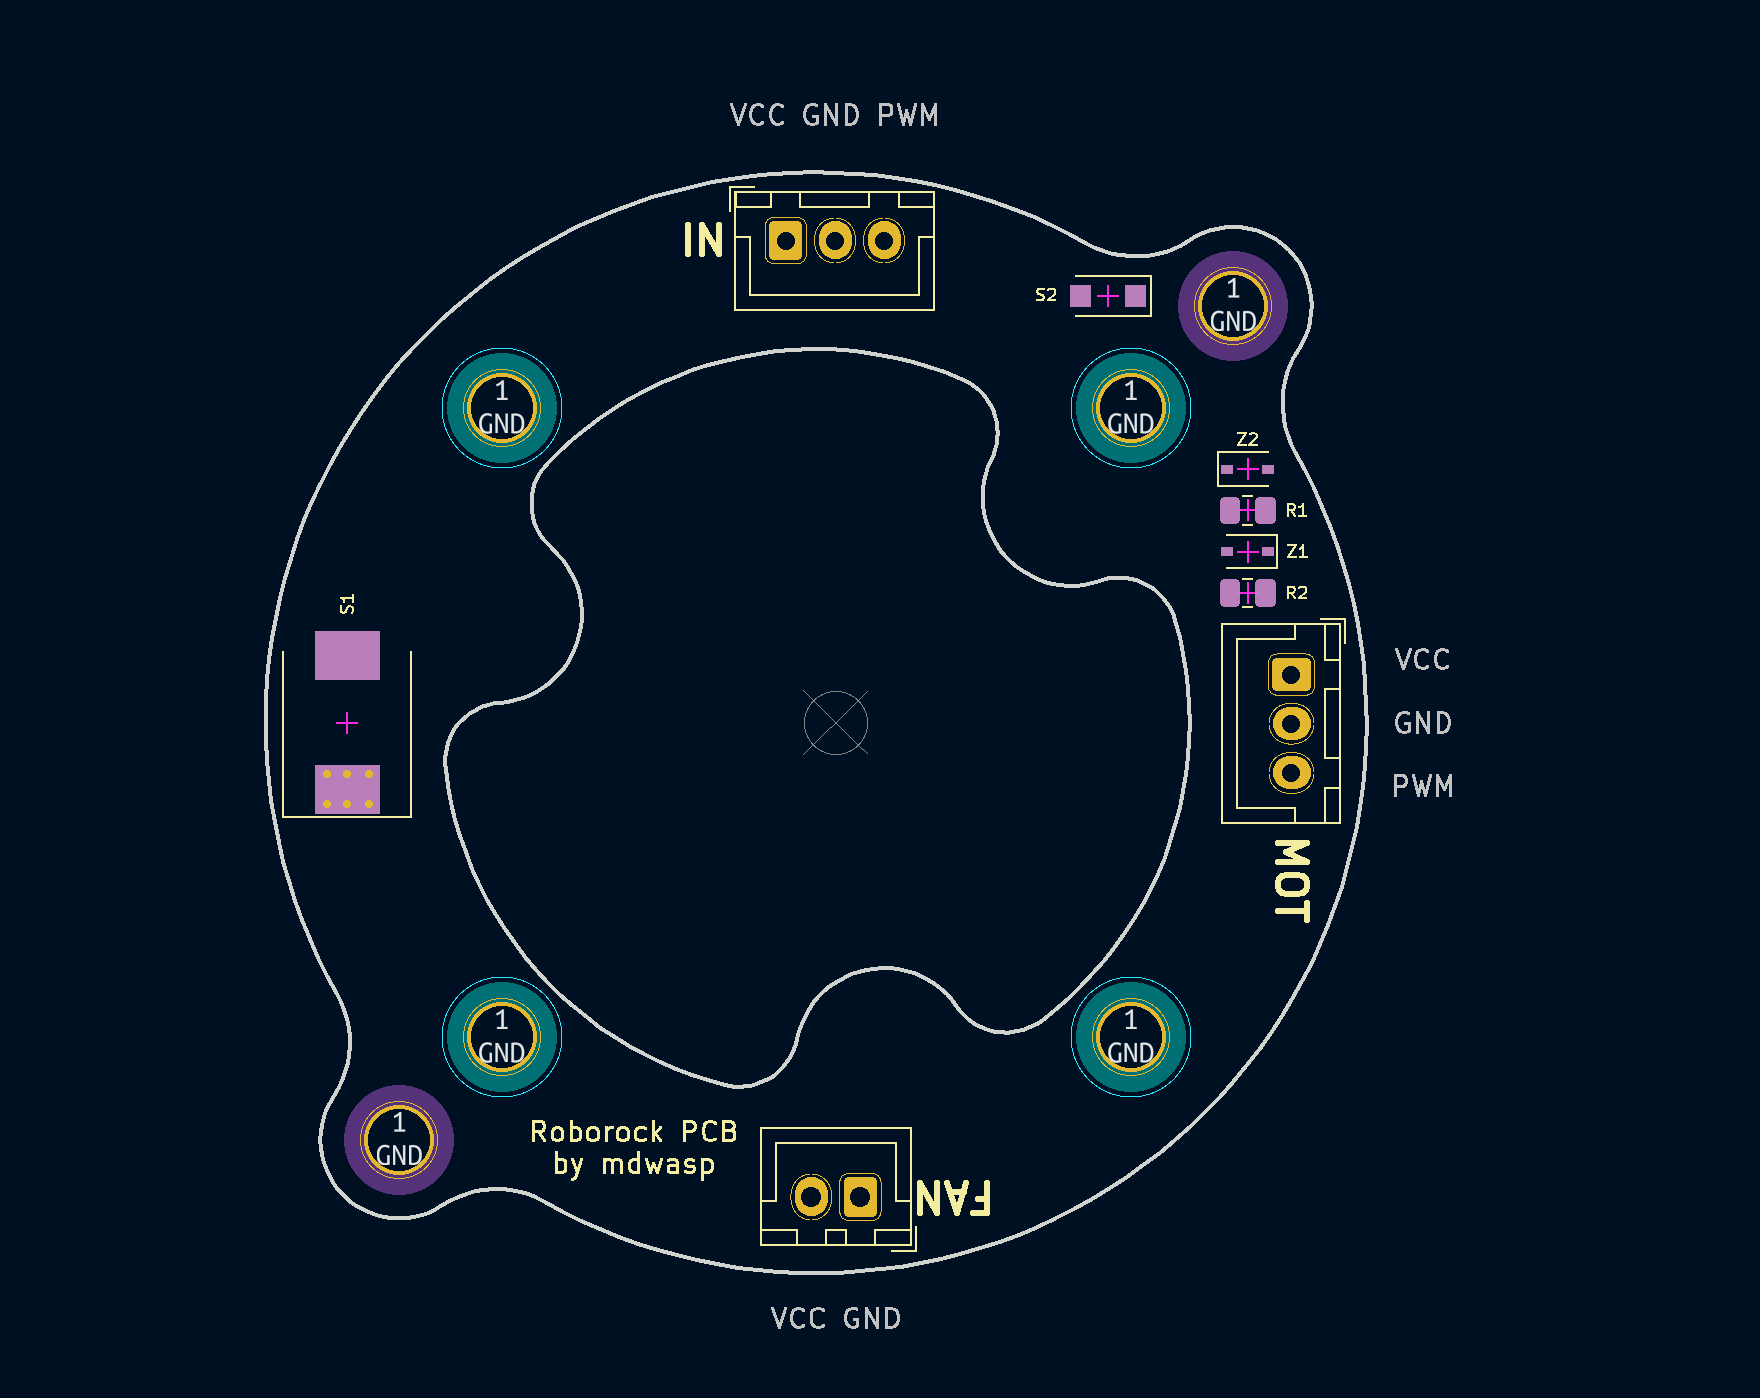
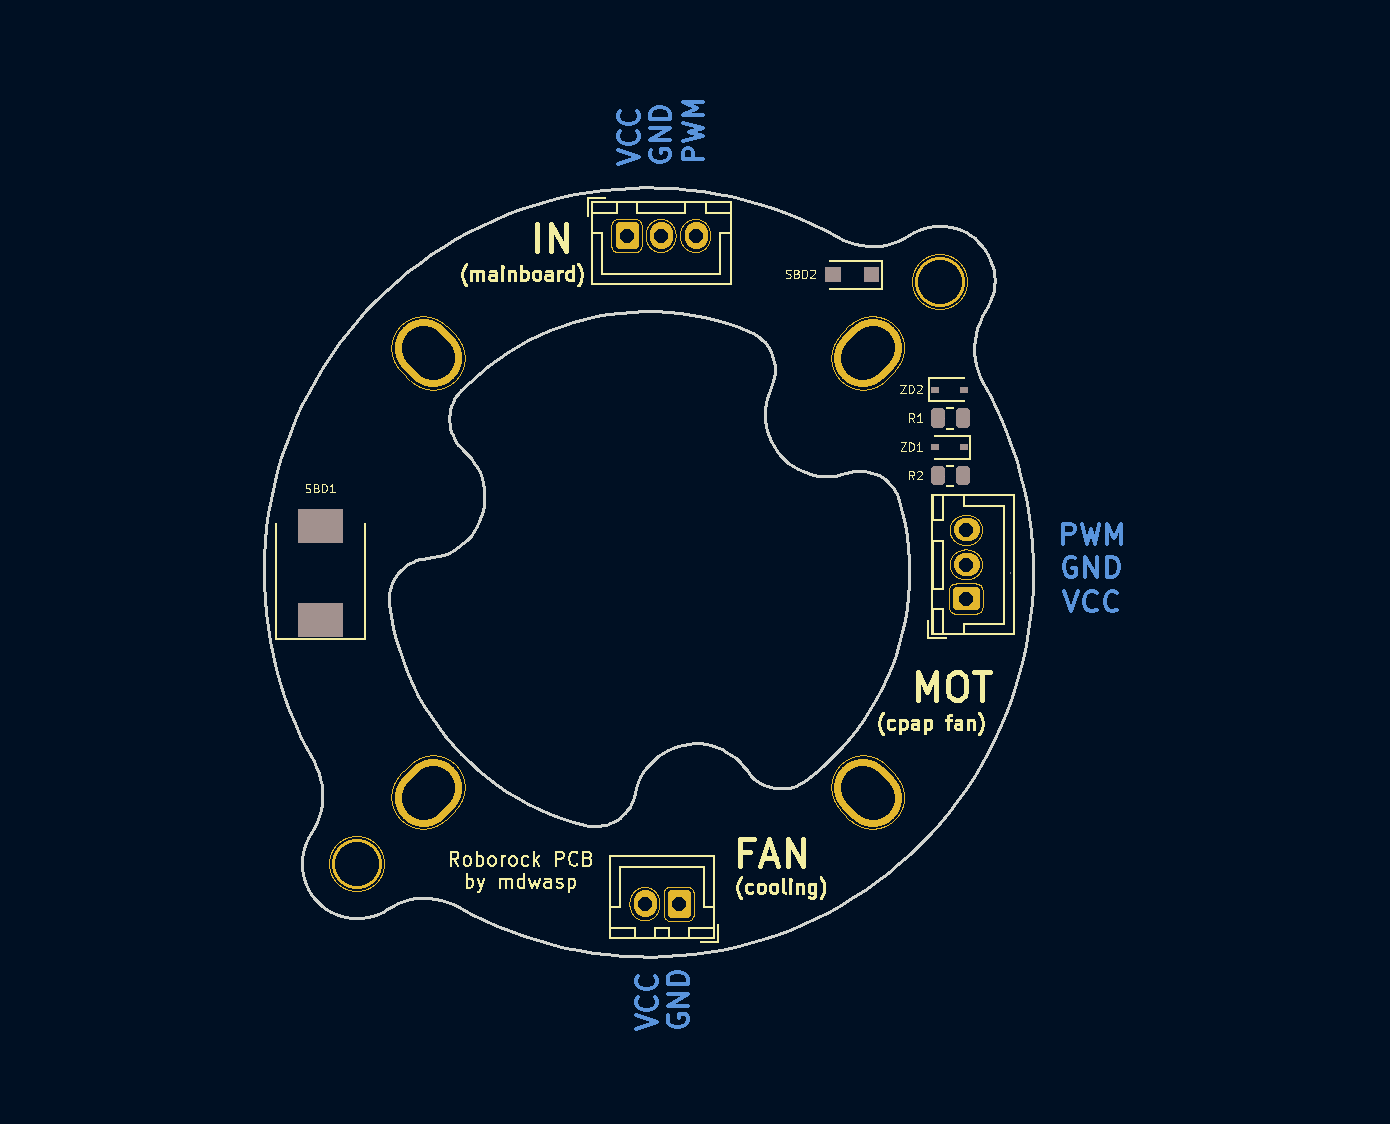
feat: Add new pinout

diff --git a/README.md b/README.md
@@ -34,6 +34,9 @@ for a cooling fan to be added.
 
 ![](assets/pinout.png)
 
+**Attention:**  
+This pinout changed in version 0.2.0 due to a rotation of a connector. The same cables will work though since the connector has only been rotated. Refer to the writing on the back of your board.
+
 ## Ordering
 
 The files to order this PCB are in the `kicad/jlcpcb` sub-folder. These work with the JLCPCB assembly service as well, there will be extended component fees though.
